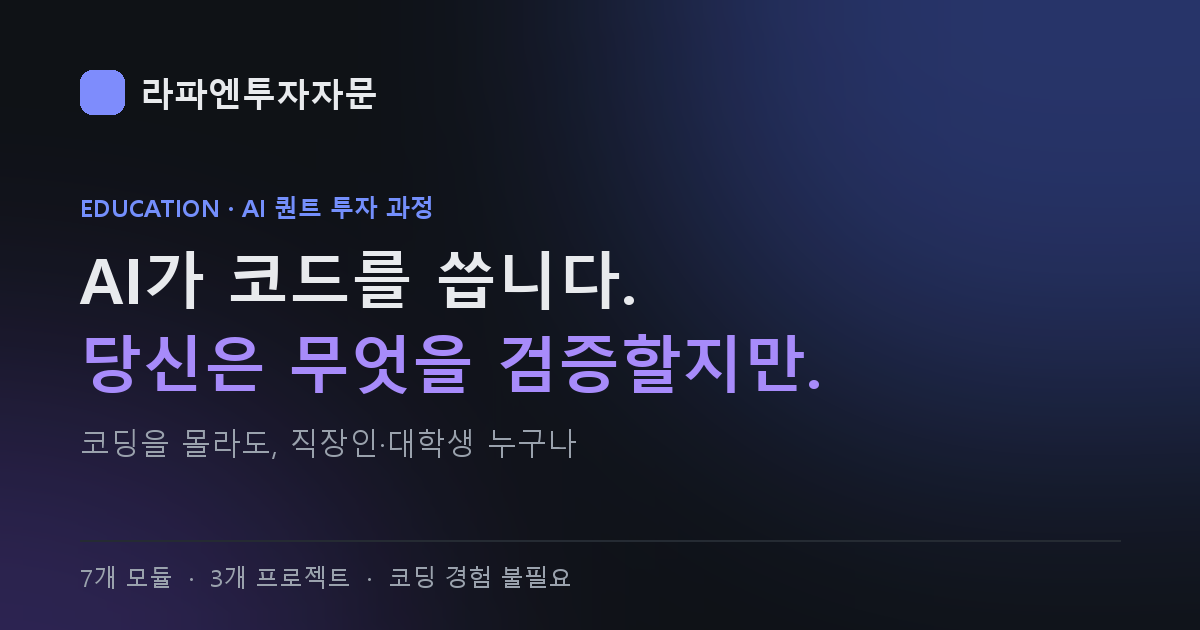
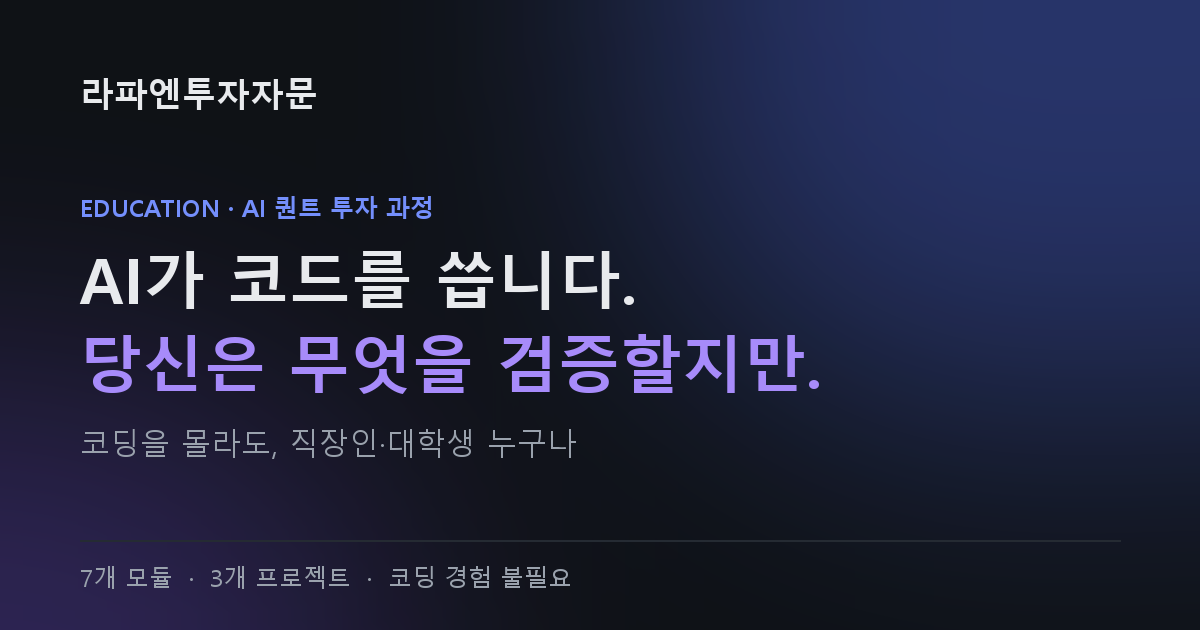
헤더·공유 이미지에서 임시 로고 네모 제거, 공유 이미지 생성 스크립트를 tools/ 에 보관

Changed region(s): [[0.0617, 0.0905, 0.3083, 0.181]]

diff --git a/index.html b/index.html
@@ -17,7 +17,7 @@
 <!-- /og -->
 <meta name="description" content="10년 백테스트와 자기자본 실전 운용으로 검증한 투자 시스템. 오를 땐 성장 산업에 집중하고, 위험할 땐 현금으로 지킵니다.">
 <link rel="stylesheet" href="https://cdn.jsdelivr.net/gh/orioncactus/pretendard@v1.3.9/dist/web/variable/pretendardvariable.min.css">
-<link rel="stylesheet" href="assets/style.css?v=20260929a">
+<link rel="stylesheet" href="assets/style.css?v=20260930a">
 </head>
 <body>
 
@@ -95,6 +95,6 @@
   <a class="btn primary" href="product.html#contact">상담 문의</a>
 </section>
 
-<script src="assets/site.js?v=20260929a"></script>
+<script src="assets/site.js?v=20260930a"></script>
 </body>
 </html>

diff --git a/education.html b/education.html
@@ -17,7 +17,7 @@
 <!-- /og -->
 <meta name="description" content="라파엔투자자문의 투자 교육 과정. AI와 함께 배우는 퀀트 투자 과정을 시작으로 교육 과정을 늘려 갑니다.">
 <link rel="stylesheet" href="https://cdn.jsdelivr.net/gh/orioncactus/pretendard@v1.3.9/dist/web/variable/pretendardvariable.min.css">
-<link rel="stylesheet" href="assets/style.css?v=20260929a">
+<link rel="stylesheet" href="assets/style.css?v=20260930a">
 </head>
 <body>
 
@@ -90,6 +90,6 @@
   <a class="btn primary" href="edu-quant.html">과정 보러 가기</a>
 </section>
 
-<script src="assets/site.js?v=20260929a"></script>
+<script src="assets/site.js?v=20260930a"></script>
 </body>
 </html>

diff --git a/edu-quant.html b/edu-quant.html
@@ -17,7 +17,7 @@
 <!-- /og -->
 <meta name="description" content="코딩을 몰라도 AI와 함께 나만의 투자 규칙을 만들고 검증하는 퀀트 입문 과정. 직장인·대학생 누구나.">
 <link rel="stylesheet" href="https://cdn.jsdelivr.net/gh/orioncactus/pretendard@v1.3.9/dist/web/variable/pretendardvariable.min.css">
-<link rel="stylesheet" href="assets/style.css?v=20260929a">
+<link rel="stylesheet" href="assets/style.css?v=20260930a">
 </head>
 <body>
 
@@ -256,6 +256,6 @@
   <a class="btn primary" href="#apply">수강 신청하기</a>
 </section>
 
-<script src="assets/site.js?v=20260929a"></script>
+<script src="assets/site.js?v=20260930a"></script>
 </body>
 </html>

diff --git a/admin.html b/admin.html
@@ -6,7 +6,7 @@
 <meta name="robots" content="noindex">
 <title>관리자 · 라파엔투자자문</title>
 <link rel="stylesheet" href="https://cdn.jsdelivr.net/gh/orioncactus/pretendard@v1.3.9/dist/web/variable/pretendardvariable.min.css">
-<link rel="stylesheet" href="assets/style.css?v=20260929a">
+<link rel="stylesheet" href="assets/style.css?v=20260930a">
 </head>
 <body>
 
@@ -74,7 +74,7 @@
   </div>
 </section>
 
-<script src="assets/site.js?v=20260929a"></script>
+<script src="assets/site.js?v=20260930a"></script>
 <script>
 (function () {
   var API = 'https://api.github.com/repos/' + SITE.repo + '/contents/' + SITE.noticesFile;

diff --git a/business.html b/business.html
@@ -5,7 +5,7 @@
 <meta name="viewport" content="width=device-width,initial-scale=1">
 <title>Business · 라파엔투자자문</title>
 <link rel="stylesheet" href="https://cdn.jsdelivr.net/gh/orioncactus/pretendard@v1.3.9/dist/web/variable/pretendardvariable.min.css">
-<link rel="stylesheet" href="assets/style.css?v=20260929a">
+<link rel="stylesheet" href="assets/style.css?v=20260930a">
 </head>
 <body>
 
@@ -82,6 +82,6 @@
   <a class="btn primary" href="about.html">오시는 길 · 연락처</a>
 </section>
 
-<script src="assets/site.js?v=20260929a"></script>
+<script src="assets/site.js?v=20260930a"></script>
 </body>
 </html>

diff --git a/product.html b/product.html
@@ -17,7 +17,7 @@
 <!-- /og -->
 <meta name="description" content="오를 땐 성장 산업에 집중하고, 위험할 땐 현금으로 지키는 라파엔투자자문의 자문 상품.">
 <link rel="stylesheet" href="https://cdn.jsdelivr.net/gh/orioncactus/pretendard@v1.3.9/dist/web/variable/pretendardvariable.min.css">
-<link rel="stylesheet" href="assets/style.css?v=20260929a">
+<link rel="stylesheet" href="assets/style.css?v=20260930a">
 </head>
 <body>
 
@@ -152,6 +152,6 @@
   </div>
 </section>
 
-<script src="assets/site.js?v=20260929a"></script>
+<script src="assets/site.js?v=20260930a"></script>
 </body>
 </html>

diff --git a/information.html b/information.html
@@ -5,7 +5,7 @@
 <meta name="viewport" content="width=device-width,initial-scale=1">
 <title>Information · 라파엔투자자문</title>
 <link rel="stylesheet" href="https://cdn.jsdelivr.net/gh/orioncactus/pretendard@v1.3.9/dist/web/variable/pretendardvariable.min.css">
-<link rel="stylesheet" href="assets/style.css?v=20260929a">
+<link rel="stylesheet" href="assets/style.css?v=20260930a">
 </head>
 <body>
 
@@ -19,6 +19,6 @@
 
 <div data-viewer="information"></div>
 
-<script src="assets/site.js?v=20260929a"></script>
+<script src="assets/site.js?v=20260930a"></script>
 </body>
 </html>

diff --git a/process.html b/process.html
@@ -5,7 +5,7 @@
 <meta name="viewport" content="width=device-width,initial-scale=1">
 <title>Process · 라파엔투자자문</title>
 <link rel="stylesheet" href="https://cdn.jsdelivr.net/gh/orioncactus/pretendard@v1.3.9/dist/web/variable/pretendardvariable.min.css">
-<link rel="stylesheet" href="assets/style.css?v=20260929a">
+<link rel="stylesheet" href="assets/style.css?v=20260930a">
 </head>
 <body>
 
@@ -64,6 +64,6 @@
   </div>
 </section>
 
-<script src="assets/site.js?v=20260929a"></script>
+<script src="assets/site.js?v=20260930a"></script>
 </body>
 </html>

diff --git a/notice.html b/notice.html
@@ -5,7 +5,7 @@
 <meta name="viewport" content="width=device-width,initial-scale=1">
 <title>Notice · 라파엔투자자문</title>
 <link rel="stylesheet" href="https://cdn.jsdelivr.net/gh/orioncactus/pretendard@v1.3.9/dist/web/variable/pretendardvariable.min.css">
-<link rel="stylesheet" href="assets/style.css?v=20260929a">
+<link rel="stylesheet" href="assets/style.css?v=20260930a">
 </head>
 <body>
 
@@ -23,6 +23,6 @@
   </div>
 </section>
 
-<script src="assets/site.js?v=20260929a"></script>
+<script src="assets/site.js?v=20260930a"></script>
 </body>
 </html>

diff --git a/about.html b/about.html
@@ -5,7 +5,7 @@
 <meta name="viewport" content="width=device-width,initial-scale=1">
 <title>About · 라파엔투자자문</title>
 <link rel="stylesheet" href="https://cdn.jsdelivr.net/gh/orioncactus/pretendard@v1.3.9/dist/web/variable/pretendardvariable.min.css">
-<link rel="stylesheet" href="assets/style.css?v=20260929a">
+<link rel="stylesheet" href="assets/style.css?v=20260930a">
 </head>
 <body>
 
@@ -84,6 +84,6 @@
   </div>
 </section>
 
-<script src="assets/site.js?v=20260929a"></script>
+<script src="assets/site.js?v=20260930a"></script>
 </body>
 </html>

diff --git a/assets/site.js b/assets/site.js
@@ -186,7 +186,7 @@
   function renderHeader() {
     var here = pageFile();
     var html = '<div class="wrap">' +
-      '<a class="brand" href="index.html"><span class="mark"></span><span>' + esc(SITE.name) + '</span></a>' +
+      '<a class="brand" href="index.html"><span>' + esc(SITE.name) + '</span></a>' +
       '<ul class="nav" id="nav">';
     SITE.menu.forEach(function (m) {
       var active = here === m.href.split('?')[0] ? ' active' : '';

diff --git a/tools/make_og.py b/tools/make_og.py
@@ -1,0 +1,50 @@
+# -*- coding: utf-8 -*-
+"""링크 공유용 미리보기 이미지(1200x630) 생성.
+문구를 바꾸려면 아래 make(...) 호출의 글자만 고치고 실행한다:  python tools/make_og.py
+"""
+import os
+from PIL import Image, ImageDraw, ImageFont, ImageFilter
+
+ROOT = os.path.dirname(os.path.dirname(os.path.abspath(__file__)))
+BOLD = r"C:\Windows\Fonts\malgunbd.ttf"
+REG = r"C:\Windows\Fonts\malgun.ttf"
+W, H = 1200, 630
+INK, ACCENT, MUTED, EYEBROW = (232, 234, 237), (167, 139, 250), (154, 162, 173), (116, 143, 252)
+
+
+def font(path, size):
+    return ImageFont.truetype(path, size)
+
+
+def make(name, eyebrow, lines, sub, foot):
+    img = Image.new("RGB", (W, H), (15, 18, 22))
+    glow = Image.new("RGB", (W, H), (15, 18, 22))
+    g = ImageDraw.Draw(glow)
+    g.ellipse((640, -260, 1400, 420), fill=(44, 58, 120))
+    g.ellipse((-300, 380, 380, 900), fill=(52, 40, 96))
+    img = Image.blend(img, glow.filter(ImageFilter.GaussianBlur(140)), 0.85)
+    d = ImageDraw.Draw(img)
+    d.text((80, 70), "라파엔투자자문", font=font(BOLD, 34), fill=INK)
+    d.text((80, 190), eyebrow, font=font(BOLD, 24), fill=EYEBROW)
+    y = 236
+    for text, color in lines:
+        d.text((80, y), text, font=font(BOLD, 62), fill=color)
+        y += 84
+    d.text((80, y + 18), sub, font=font(REG, 30), fill=MUTED)
+    d.line((80, 540, 1120, 540), fill=(37, 43, 51), width=2)
+    d.text((80, 560), foot, font=font(REG, 24), fill=MUTED)
+    path = os.path.join(ROOT, "assets", name)
+    img.save(path, optimize=True)
+    print(name, os.path.getsize(path))
+
+
+if __name__ == "__main__":
+    make("og-site.png", "RAPHA-N INVESTMENT ADVISORY",
+         [("AI 투자의 새로운 기준", INK), ("SEE THE UNSEEN", ACCENT)],
+         "오를 땐 집중하고, 위험할 땐 지키는 포트폴리오", "10년 백테스트  ·  자기자본 실전 운용으로 검증")
+    make("og-product.png", "PRODUCT · 투자자문 상품",
+         [("성장·방어 포트폴리오 자문", INK), ("오를 땐 집중, 위험할 땐 방어", ACCENT)],
+         "핵심 3~10종목 집중 · 시장 상태에 따라 주식 비중 조절", "10년 백테스트  ·  자기자본 실전 운용으로 검증")
+    make("og-edu.png", "EDUCATION · AI 퀀트 투자 과정",
+         [("AI가 코드를 씁니다.", INK), ("당신은 무엇을 검증할지만.", ACCENT)],
+         "코딩을 몰라도, 직장인·대학생 누구나", "7개 모듈  ·  3개 프로젝트  ·  코딩 경험 불필요")
